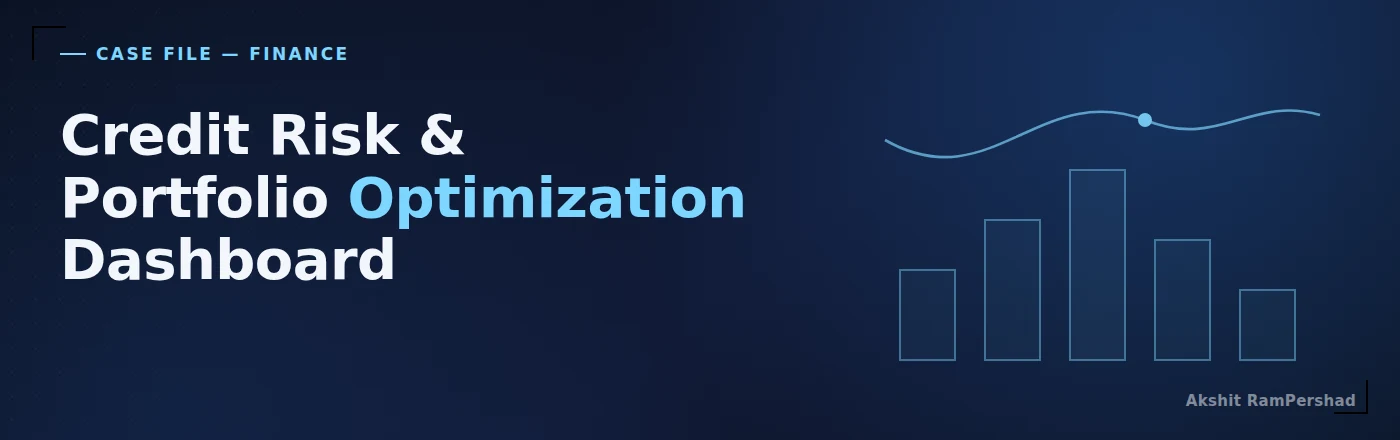
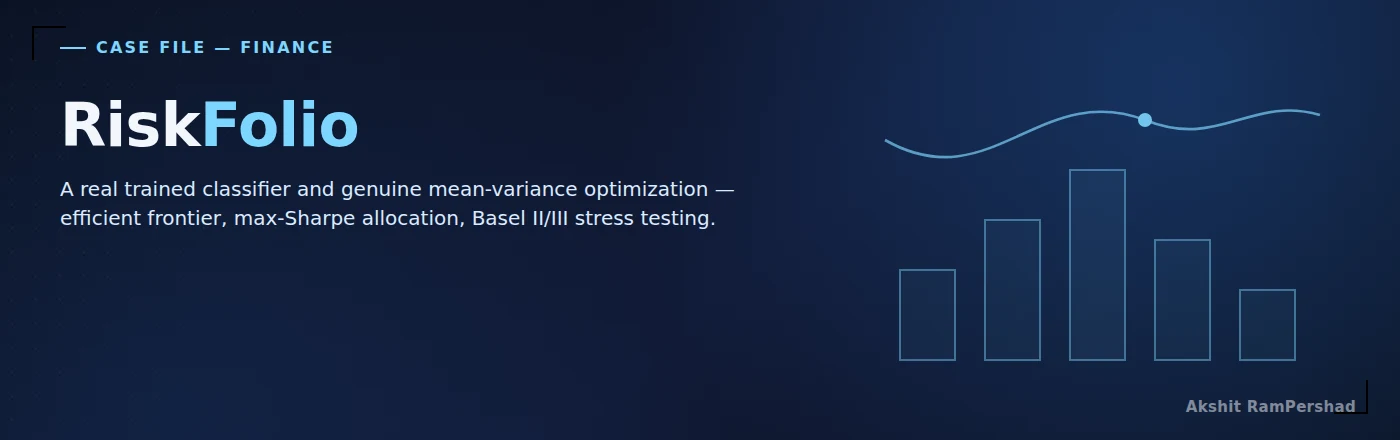
Restore cover subtext with proper contrast/sizing, add product names for all four projects
Covers now show a bold product name plus a fully legible tagline
underneath (the earlier fix over-corrected by dropping the subtext
entirely instead of just re-sizing/re-coloring it for the smaller
canvas). CYBER-GPT and Watson keep their real names; the two
previously nameless projects get their own: RiskFolio for the Credit
Risk & Portfolio Optimization Dashboard, and SpecForge for the
AI-Powered Agentic Workflow. Card titles below each image now show
only the description, since the name is already established by the
cover art above it.

diff --git a/index.html b/index.html
@@ -1772,7 +1772,7 @@
           <div class="repo-card-body">
             <div class="repo-status-row"><span class="repo-badge repo-badge-neutral"><span class="dot"></span>Research Proposal</span></div>
             <p class="repo-eyebrow">Generative AI &middot; Security</p>
-            <h3><a href="https://github.com/AkshitRampershad/CYBER-GPT" target="_blank" rel="noopener noreferrer">CYBER-GPT: Enhancing Cyber-Threat Analysis Using Generative AI</a></h3>
+            <h3><a href="https://github.com/AkshitRampershad/CYBER-GPT" target="_blank" rel="noopener noreferrer">Enhancing Cyber-Threat Analysis Using Generative AI</a></h3>
             <div class="repo-stats">
               <div class="repo-stat"><span class="v">5</span><span class="k">System Components</span></div>
               <div class="repo-stat"><span class="v">MITRE ATT&amp;CK</span><span class="k">Framework Aligned</span></div>
@@ -1852,7 +1852,7 @@
           <div class="repo-card-body">
             <div class="repo-status-row"><span class="repo-badge repo-badge-live"><span class="dot"></span>Live Demo</span></div>
             <p class="repo-eyebrow">NLP &middot; Multilingual</p>
-            <h3><a href="https://github.com/AkshitRampershad/Contradictory-My-Dear-Watson" target="_blank" rel="noopener noreferrer">Contradictory, My Dear Watson: Multilingual NLI &amp; Fact-Checking</a></h3>
+            <h3><a href="https://github.com/AkshitRampershad/Contradictory-My-Dear-Watson" target="_blank" rel="noopener noreferrer">Multilingual NLI &amp; Fact-Checking</a></h3>
             <div class="repo-stats">
               <div class="repo-stat"><span class="v">90.06%</span><span class="k">Test Accuracy</span></div>
               <div class="repo-stat"><span class="v">6th/64</span><span class="k">Kaggle Teams</span></div>
